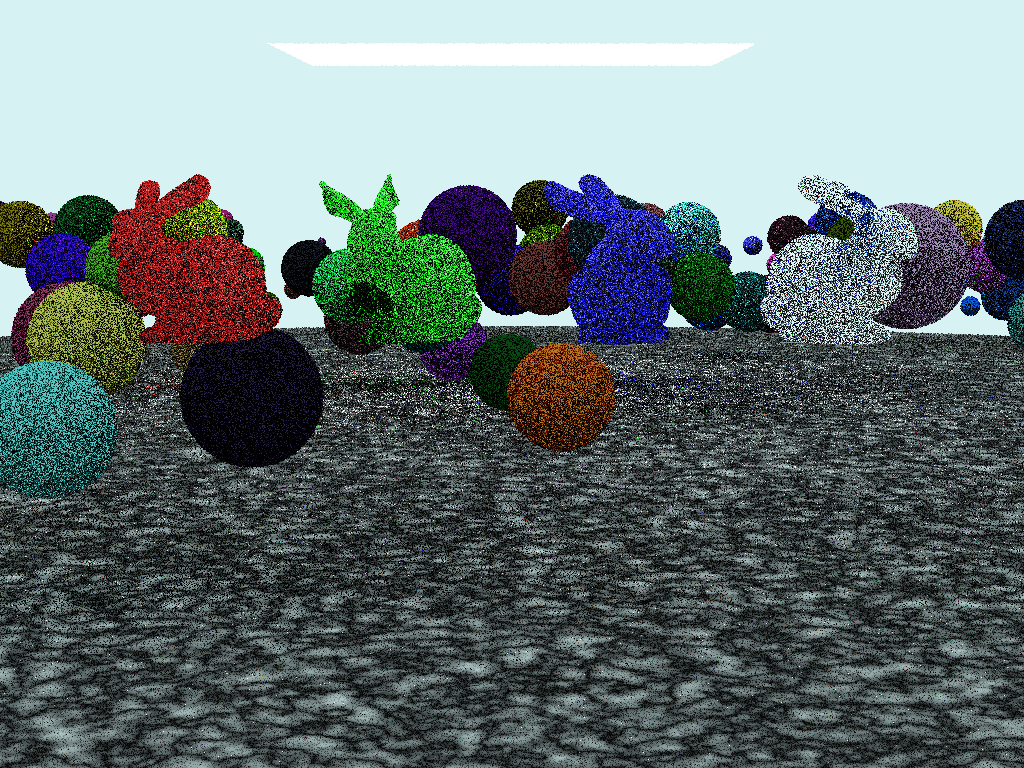
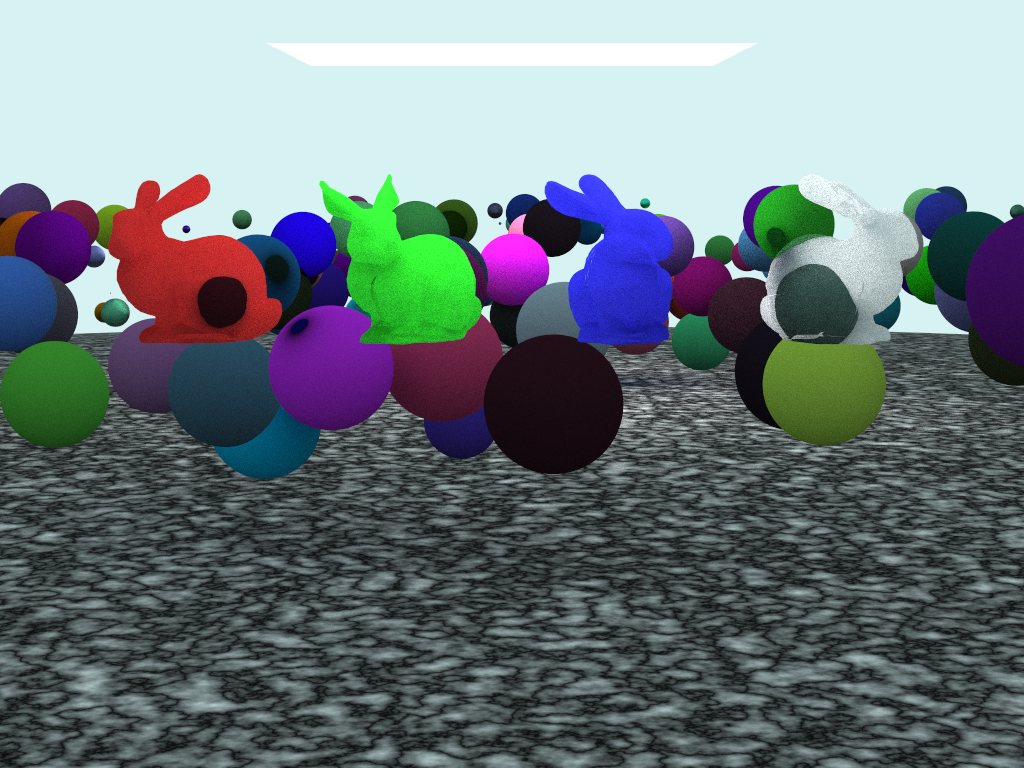
This renderer probably work...^^

diff --git a/src/PBRenderer.cpp b/src/PBRenderer.cpp
@@ -36,7 +36,7 @@ int main(int argc, const char * argv[]) {
     vec3 vup(0, 1, 0);
     auto dist_to_focus = 15.0;
     auto aperture = 0.0;
-    vec3 background(0.7, 0.9, 0.9);
+    vec3 background(1.0f);
     // vec3 background(1.0f, 0.0f, 1.0f);
 
     // Parsing scene configuration
@@ -83,6 +83,11 @@ int main(int argc, const char * argv[]) {
                 iss >> dist_to_focus;
             else if(header == "aperture")
                 iss >> aperture;
+            else if(header == "bg" || header == "background")  {
+                float x, y, z;
+                iss >> x >> y >> z;
+                background = vec3(x, y, z);
+            }
         }
     }
 
@@ -156,3 +161,4 @@ int main(int argc, const char * argv[]) {
     std::cerr << "\nDone\n";
     return 0;
 }
+

diff --git a/scene/planeandbunny.h b/scene/planeandbunny.h
@@ -33,7 +33,7 @@ std::vector<std::shared_ptr<Primitive>> scene() {
         std::shared_ptr<Material> mat_ptr;
         if(rnd < 0.5f) mat_ptr = std::make_shared<Lambertian>(albedo);
         else if(rnd < 0.7f) mat_ptr = std::make_shared<Dielectric>(albedo, 1.52);
-        else if(rnd < 0.9f) mat_ptr = std::make_shared<Metal>(albedo, 0.03);
+        else if(rnd < 0.9f) mat_ptr = std::make_shared<Metal>(albedo, 0.0f);
         else mat_ptr = std::make_shared<Emitter>(albedo, 10.0f);
 
         primitives.emplace_back(

diff --git a/src/core/Material.h b/src/core/Material.h
@@ -14,9 +14,9 @@ struct HitRecord {
     bool front_face;
 
     inline void set_face_normal(const Ray& r, const vec3& outward_normal) {
-        // front_face = dot(r.direction(), outward_normal) < 0;
-        // normal = front_face ? outward_normal : -outward_normal;
-        normal = outward_normal;
+        front_face = dot(r.direction(), outward_normal) < 0;
+        normal = front_face ? outward_normal : -outward_normal;
+        // normal = outward_normal;
     }
 };
 

diff --git a/src/core/Primitive.h b/src/core/Primitive.h
@@ -27,7 +27,9 @@ public:
         auto p = rec.p;
         auto normal = rec.normal;
         p = mat4::point_mul(transform->getMatrix(), p);
-        normal = mat4::normal_mul(transform->getInvMatrix(), normal);
+        // normal = mat4::normal_mul(transform->getInvMatrix(), normal);
+        normal = mat4::vector_mul(transform->getMatrix(), normal);
+        normal = normalize(normal);
 
         rec.p = p;
         rec.set_face_normal(tr_ray, normal);
